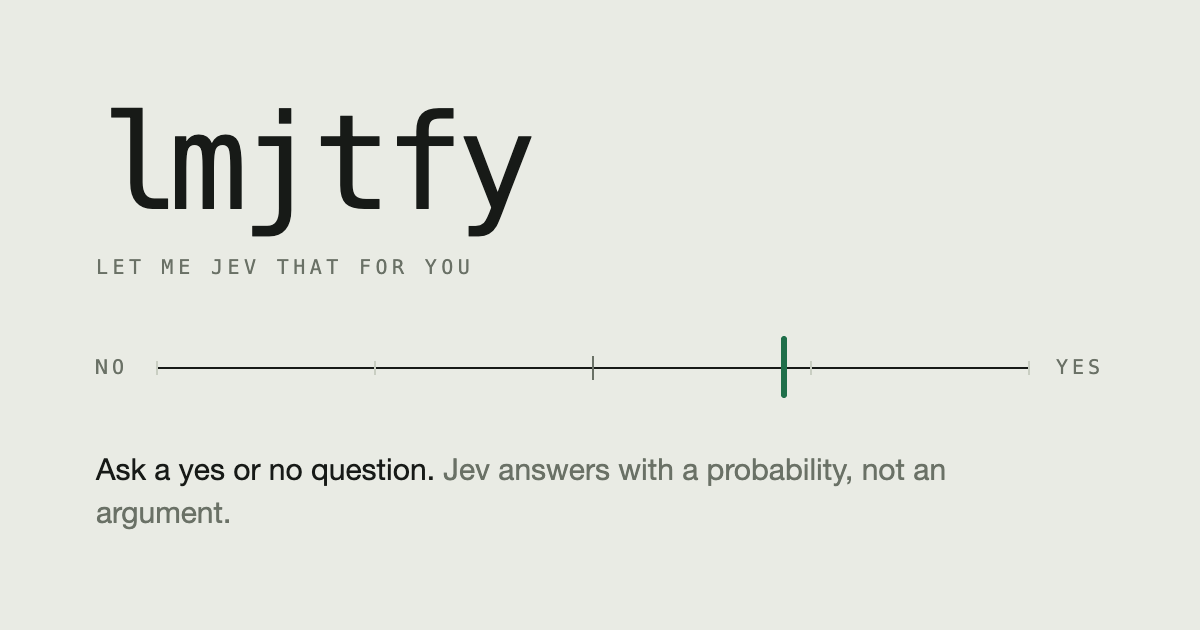
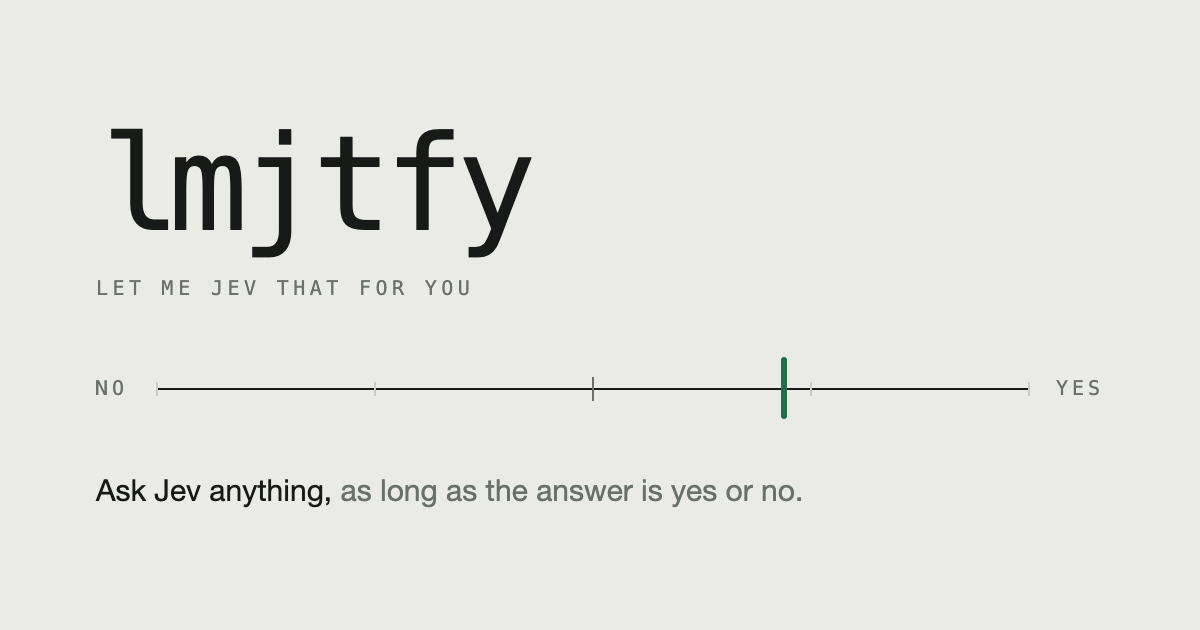
Credit TypeSafe for Jev, and tighten the metadata copy
Jev is TypeSafe's model, and nothing on the page said so. The name in the
masthead is now a link to typesafe.ai with a tooltip explaining what Jev is,
shown on hover and on keyboard focus and wired up with aria-describedby. The
footer carries a second credit next to the PostHog one.

The meta description read like a feature list and ran to three clauses. It is
now one line that plays the joke straight: "Ask Jev anything, as long as the
answer is yes or no." The same line replaces the Open Graph and Twitter
descriptions and the tagline burnt into the social image.

Drops em dashes from every user-facing string: titles use a colon, the
generated per-question descriptions use full stops. The typographic dashes
standing in for empty values in the readout are left alone, since those are
placeholders rather than prose.

Also removes a repeated "Jev" in the generated answer sentence, which read
"Jev is torn. Jev puts the odds..."

diff --git a/public/index.html b/public/index.html
@@ -3,8 +3,8 @@
 <head>
 <meta charset="utf-8">
 <meta name="viewport" content="width=device-width, initial-scale=1, viewport-fit=cover">
-<title>lmjtfy — let me Jev that for you</title>
-<meta name="description" content="Ask Jev a yes or no question. Jev does not explain, argue, or hedge — it answers with a probability. Identical questions are grouped, so you can see what everyone else asked.">
+<title>lmjtfy: let me Jev that for you</title>
+<meta name="description" content="Ask Jev anything, as long as the answer is yes or no.">
 <link rel="canonical" href="https://lmjtfy.dev/">
 <meta name="color-scheme" content="light">
 <meta name="theme-color" content="#e9ebe4">
@@ -13,21 +13,21 @@
 <meta property="og:site_name" content="lmjtfy">
 <meta property="og:type" content="website">
 <meta property="og:url" content="https://lmjtfy.dev/">
-<meta property="og:title" content="lmjtfy — let me Jev that for you">
-<meta property="og:description" content="Ask Jev a yes or no question. Jev answers with a probability, not an argument.">
+<meta property="og:title" content="lmjtfy: let me Jev that for you">
+<meta property="og:description" content="Ask Jev anything, as long as the answer is yes or no.">
 <meta property="og:image" content="https://lmjtfy.dev/og.png">
 <meta property="og:image:type" content="image/png">
 <meta property="og:image:width" content="1200">
 <meta property="og:image:height" content="630">
-<meta property="og:image:alt" content="lmjtfy — a needle on a scale running from no to yes.">
+<meta property="og:image:alt" content="A needle on a scale running from no to yes.">
 <meta property="og:locale" content="en_GB">
 
 <meta name="twitter:card" content="summary_large_image">
 <meta name="twitter:site" content="@PostHog">
-<meta name="twitter:title" content="lmjtfy — let me Jev that for you">
-<meta name="twitter:description" content="Ask Jev a yes or no question. Jev answers with a probability, not an argument.">
+<meta name="twitter:title" content="lmjtfy: let me Jev that for you">
+<meta name="twitter:description" content="Ask Jev anything, as long as the answer is yes or no.">
 <meta name="twitter:image" content="https://lmjtfy.dev/og.png">
-<meta name="twitter:image:alt" content="lmjtfy — a needle on a scale running from no to yes.">
+<meta name="twitter:image:alt" content="A needle on a scale running from no to yes.">
 
 <link rel="stylesheet" href="/styles.css">
 <link rel="icon" href="/favicon.svg" type="image/svg+xml">
@@ -82,7 +82,12 @@
 <main class="stage">
   <header class="masthead">
     <h1 class="wordmark">lmjtfy</h1>
-    <p class="expansion">let me Jev that for you</p>
+    <p class="expansion">let me
+      <span class="jev-wrap">
+        <a class="jev" href="https://typesafe.ai/?utm_source=lmjtfy&amp;utm_medium=referral" target="_blank" rel="noopener" aria-describedby="jev-tip">Jev</a>
+        <span class="jev__tip" id="jev-tip" role="tooltip">Jev is TypeSafe&#39;s System One model. It answers with a calibrated probability instead of prose.</span>
+      </span>
+      that for you</p>
   </header>
 
   <form class="ask" id="ask-form" autocomplete="off">
@@ -147,6 +152,8 @@
       <span class="sr-only">PostHog</span>
       <!-- posthog-logo --><svg class="colophon__logo" viewBox="0 0 160 28" xmlns="http://www.w3.org/2000/svg" fill="none" aria-hidden="true" focusable="false"><g fill="currentColor" clip-path="url(#logo-landscape-black-clip0_56_1025)"><path d="m50.02 23.34-.34-.04c-1-.13-1.95-.6-2.66-1.33L35.58 10.11a.5.5 0 0 0-.86.35V27.5c0 .28.22.5.5.5H49c1.48 0 2.67-1.2 2.67-2.67v-.1a1.9 1.9 0 0 0-1.66-1.9m-10.81.2a1.78 1.78 0 1 1 0-3.56 1.78 1.78 0 0 1 0 3.57M0 25.41A2.6 2.6 0 0 0 2.59 28h5.22a.5.5 0 0 0 .37-.84L.87 19.13a.5.5 0 0 0-.87.34zm18.81 1.74a.5.5 0 0 1-.36.85h-7.09a.5.5 0 0 1-.37-.17L8.94 25.5.13 15.82A.5.5 0 0 1 0 15.5V8.75a.5.5 0 0 1 .86-.34zM0 2.68C0 .28 2.92-.91 4.59.82l25.6 26.33a.5.5 0 0 1-.36.85h-7.76a.5.5 0 0 1-.37-.17l-2.1-2.33L.28 5.3A1 1 0 0 1 0 4.6zm10.74 0c0-2.4 2.92-3.59 4.59-1.87L32.5 18.48l.5.51v7.3a.5.5 0 0 1-.86.35l-1.12-1.14L11.3 5.23a2 2 0 0 1-.57-1.4zM33 7.46v7.8a.5.5 0 0 1-.85.36l-9.61-9.89a2 2 0 0 1-.57-1.4V2.69c0-2.4 2.92-3.59 4.59-1.86z"/></g><path fill="currentColor" d="M64.9 22.88c-.67 0-1.23-.56-1.23-1.24V5.24c0-.69.56-1.24 1.24-1.24h6.55c3.89 0 6.39 2.32 6.39 5.9 0 3.6-2.5 5.91-6.4 5.91h-3.53v5.83c0 .68-.56 1.24-1.24 1.24zm3.02-11.94c0 .68.55 1.23 1.23 1.23h1.88c1.6 0 2.58-.86 2.58-2.26s-.97-2.27-2.58-2.27h-1.88c-.68 0-1.23.55-1.23 1.23zM84.71 23.1c-4.18 0-7.14-2.97-7.14-7.02s2.96-7.01 7.14-7.01c4.14 0 7.14 2.97 7.14 7.01 0 4.05-3 7.01-7.14 7.01m-3.22-7.02c0 2.16 1.3 3.64 3.22 3.64 1.9 0 3.2-1.48 3.2-3.64s-1.3-3.64-3.2-3.64c-1.93 0-3.22 1.48-3.22 3.64m16.34 7.03a6.2 6.2 0 0 1-5.54-3.01c-.34-.57-.01-1.26.6-1.5l.77-.3c.7-.27 1.45.15 1.92.73a2.8 2.8 0 0 0 2.25 1.08c1.05 0 1.75-.51 1.75-1.27 0-2.13-7.17-.7-7.17-5.85 0-2.13 1.85-3.91 4.83-3.91 2.27 0 4.2.9 5.17 2.31.36.53.05 1.2-.54 1.44l-.85.35c-.68.29-1.45-.14-2-.63a2.5 2.5 0 0 0-1.64-.64c-.89 0-1.5.38-1.5.97 0 2.16 7.27.38 7.27 5.88 0 2.35-2.15 4.34-5.32 4.34m14.64-1.31c.04.57-.3 1.1-.86 1.2q-.6.1-1.27.11c-2.92 0-5.15-1.56-5.15-4.85v-5.66h-.91c-.69 0-1.24-.56-1.24-1.24v-.82c0-.68.55-1.23 1.24-1.23h.91v-2.7c0-.69.55-1.24 1.23-1.24h1.48c.68 0 1.24.55 1.24 1.23v2.7h2.04c.68 0 1.23.56 1.23 1.24v.82c0 .68-.55 1.24-1.23 1.24h-2.04v5.15c0 1.2.64 1.91 1.6 1.91.75 0 1.6.5 1.66 1.25zM125.5 5.23c0-.68.55-1.23 1.23-1.23h1.8c.68 0 1.23.55 1.23 1.23v16.41c0 .68-.55 1.24-1.23 1.24h-1.8c-.68 0-1.23-.56-1.23-1.24v-5.43c0-.68-.56-1.23-1.24-1.23h-5c-.67 0-1.23.55-1.23 1.23v5.43c0 .68-.55 1.24-1.23 1.24h-1.77c-.69 0-1.24-.56-1.24-1.24V5.24c0-.69.55-1.24 1.24-1.24h1.77c.68 0 1.23.55 1.23 1.23v4.87c0 .68.56 1.23 1.24 1.23h5c.67 0 1.23-.55 1.23-1.23zm12.87 17.87c-4.19 0-7.14-2.97-7.14-7.02s2.95-7.01 7.14-7.01c4.13 0 7.14 2.97 7.14 7.01 0 4.05-3 7.01-7.14 7.01m-3.22-7.02c0 2.16 1.29 3.64 3.22 3.64 1.9 0 3.2-1.48 3.2-3.64s-1.3-3.64-3.2-3.64c-1.93 0-3.22 1.48-3.22 3.64m17.17 6.37c-3.84 0-6.2-2.58-6.2-6.68s2.36-6.69 6.12-6.69c1.58 0 2.82.54 3.54 1.37 0-.64.52-1.15 1.16-1.15h1.5c.68 0 1.24.55 1.24 1.23V21.9c0 3.64-2.77 6.09-6.93 6.09-2.64 0-4.9-1.2-5.85-3.09-.31-.62.16-1.29.85-1.4l1.14-.17c.67-.11 1.29.4 1.78.85.5.46 1.26.7 2.08.7 1.85 0 3.06-1.04 3.06-2.55v-1.3c-.7.9-2.01 1.4-3.49 1.4m-2.36-6.68c0 2.02 1.18 3.31 3 3.31 1.86 0 3.04-1.29 3.04-3.31s-1.18-3.32-3.03-3.32c-1.83 0-3.01 1.3-3.01 3.32"/><defs><clipPath id="logo-landscape-black-clip0_56_1025"><path fill="#fff" d="M0 0h51.67v28H0z"/></clipPath></defs></svg><!-- /posthog-logo -->
     </a>
+    <span class="colophon__sep" aria-hidden="true">&middot;</span>
+    <a class="colophon__link" href="https://typesafe.ai/?utm_source=lmjtfy&amp;utm_medium=referral" target="_blank" rel="noopener">Jev by TypeSafe</a>
   </footer>
 </main>
 

diff --git a/public/styles.css b/public/styles.css
@@ -86,6 +86,51 @@ body {
   margin: 0.85rem 0 0;
 }
 
+/* Jev is somebody else's work, so the name is the credit. */
+.jev-wrap { position: relative; display: inline-block; }
+
+.jev {
+  color: inherit;
+  text-decoration: none;
+  border-bottom: 1px dotted var(--hairline);
+  padding-bottom: 1px;
+  transition: color 200ms ease, border-color 200ms ease;
+}
+
+.jev:hover,
+.jev:focus-visible { color: var(--ink); border-bottom-color: var(--graphite); }
+
+.jev__tip {
+  position: absolute;
+  top: calc(100% + 0.85rem);
+  left: 50%;
+  width: max-content;
+  max-width: 19rem;
+  padding: 0.7rem 0.85rem;
+  background: var(--paper);
+  border: 1px solid var(--hairline);
+  /* The masthead sets uppercase and wide tracking; the tooltip is prose. */
+  font-family: var(--mono);
+  font-size: 0.6875rem;
+  letter-spacing: 0.02em;
+  text-transform: none;
+  line-height: 1.55;
+  text-align: left;
+  color: var(--graphite);
+  opacity: 0;
+  visibility: hidden;
+  transform: translate(-50%, -0.3rem);
+  transition: opacity 180ms ease, transform 180ms ease, visibility 180ms;
+  z-index: 10;
+}
+
+.jev-wrap:hover .jev__tip,
+.jev:focus-visible ~ .jev__tip {
+  opacity: 1;
+  visibility: visible;
+  transform: translate(-50%, 0);
+}
+
 /* ------------------------------------------------------------------ ask */
 
 .ask {
@@ -348,6 +393,11 @@ body {
   bottom: 1.5rem;
   left: 50%;
   transform: translateX(-50%);
+  display: flex;
+  align-items: center;
+  justify-content: center;
+  flex-wrap: wrap;
+  gap: 0.35rem 0.75rem;
   font-family: var(--mono);
   font-size: 0.5625rem;
   letter-spacing: 0.16em;
@@ -365,6 +415,8 @@ body {
 }
 
 .colophon__link:hover { color: var(--graphite); }
+
+.colophon__sep { color: var(--hairline); }
 
 .colophon__logo {
   height: 0.75rem;

diff --git a/src/seo.ts b/src/seo.ts
@@ -54,7 +54,7 @@ function headline(row: QuestionRow): string {
 function answerSentence(row: QuestionRow): string {
   const percent = Math.round(row.noul * 100);
   const times = `Asked ${row.ask_count} time${row.ask_count === 1 ? "" : "s"}.`;
-  return `${headline(row)} — the probability that the answer is yes is ${row.noul.toFixed(2)} (${percent}%). ${times}`;
+  return `${headline(row)}. The odds of yes are ${row.noul.toFixed(2)}, or ${percent}%. ${times}`;
 }
 
 /** FAQPage over the questions actually present in the document. */
@@ -84,10 +84,10 @@ export interface Decoration {
 export function decorateHtml(response: Response, decoration: Decoration): Response {
   const { rows, focus, focusQuery } = decoration;
 
-  const title = focus ? `${focus.text} — ${headline(focus)}` : "lmjtfy — let me Jev that for you";
+  const title = focus ? `${focus.text} ${headline(focus)}.` : "lmjtfy: let me Jev that for you";
   const description = focus
     ? answerSentence(focus)
-    : "Ask Jev a yes or no question. Jev does not explain, argue, or hedge — it answers with a probability. Identical questions are grouped, so you can see what everyone else asked.";
+    : "Ask Jev anything, as long as the answer is yes or no.";
   const canonical = focusQuery ? `${SITE}/?q=${encodeURIComponent(focusQuery)}` : `${SITE}/`;
 
   const setContent = (value: string) => ({

diff --git a/scripts/og.html b/scripts/og.html
@@ -35,5 +35,5 @@
     </div>
     <span class="pole">yes</span>
   </div>
-  <p class="tagline">Ask a yes or no question. <b>Jev answers with a probability, not an argument.</b></p>
+  <p class="tagline">Ask Jev anything, <b>as long as the answer is yes or no.</b></p>
 </body></html>
